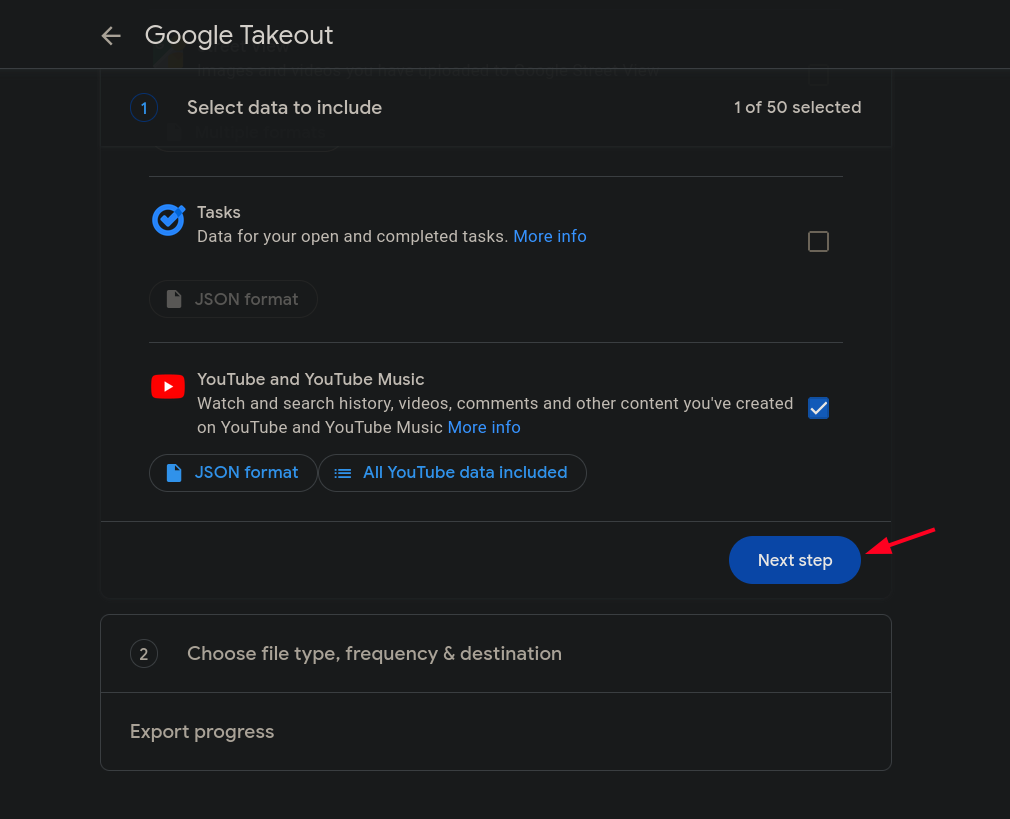
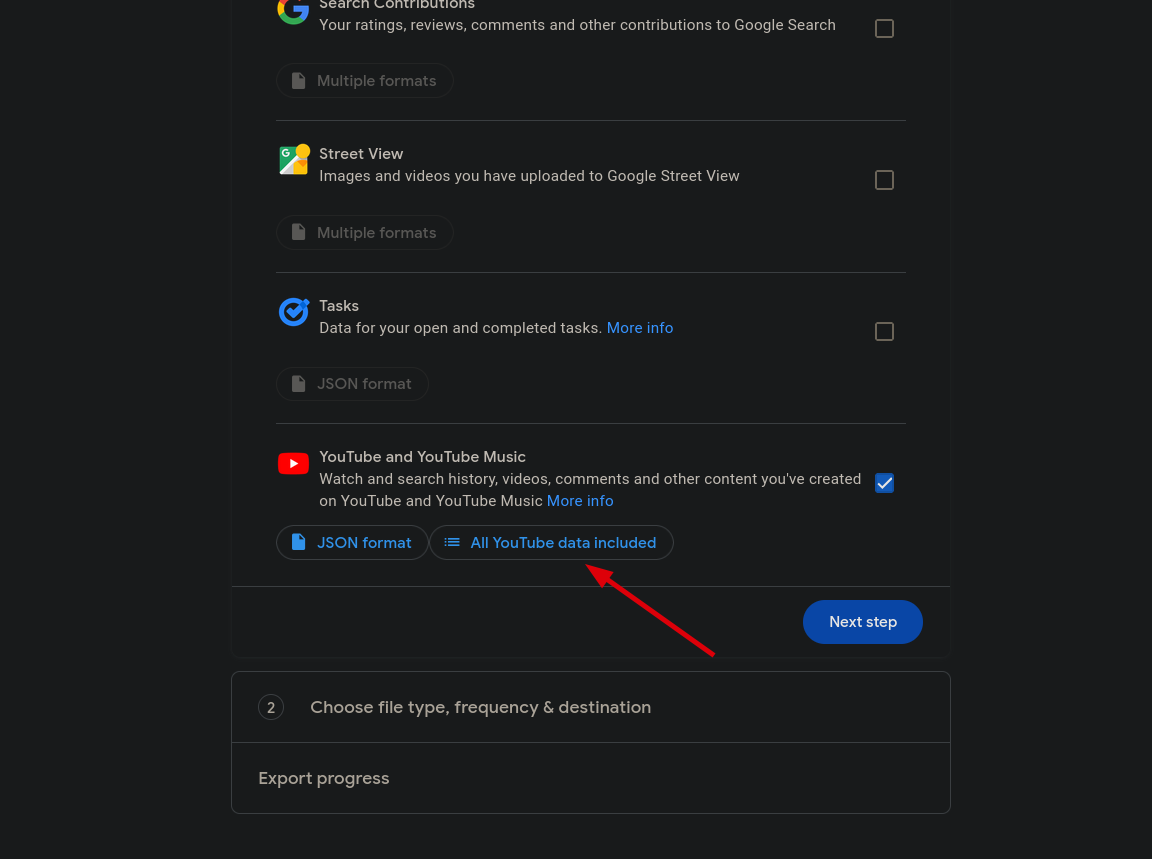
docs: Alter history export guide

diff --git a/docs/history-export-guide/export-guide.md b/docs/history-export-guide/export-guide.md
@@ -11,14 +11,21 @@ Go to [Google Takeout](https://takeout.google.com/settings/takeout).
 ## 3. Select JSON format and click OK.
 ![3.png](3.png)
 
-## 4. Click Next step.
+## 4. Click All YouTube data included.
 ![4.png](4.png)
 
-## 5. Click Create export.
+## 5. Leave only history selected. Click OK.
 ![5.png](5.png)
 
-## 6. Wait for export to complete. Make take few hours.
+## 6. Click Next step.
 ![6.png](6.png)
+
+## 7. Click Create export.
+![7.png](7.png)
+
+## 8. Wait for export to complete. Make take few hours.
+![8.png](8.png)
+
 
 ## Amazing! Let's go back to main README:
 [Main Readme link](..%2F..%2FREADME.md)
